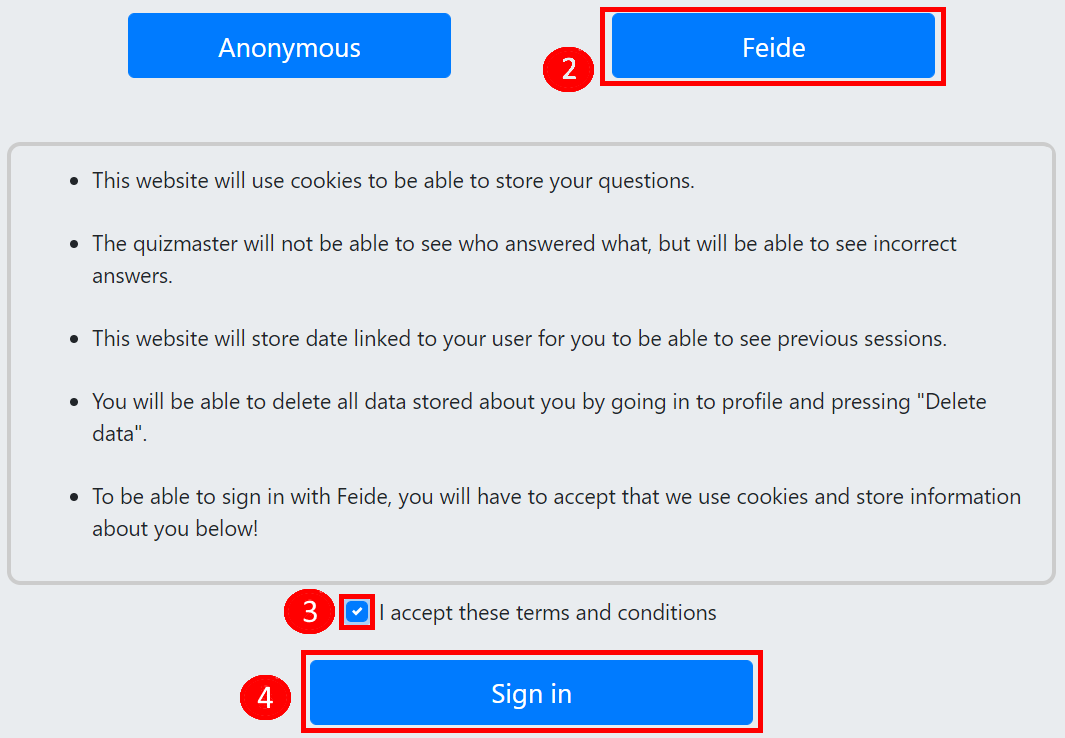
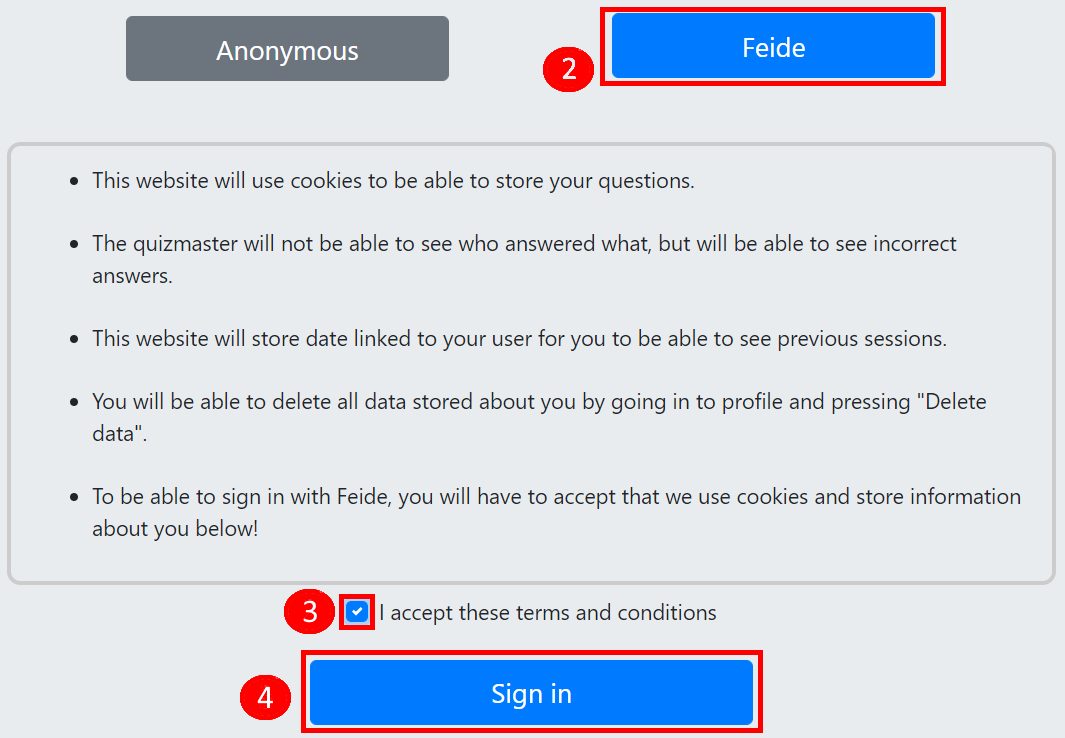
added appendix login

Changed region(s): [[0.093, 0.0, 0.4338, 0.1247]]

diff --git a/Rapport/sections/appendix/appendix-e/client/login.tex b/Rapport/sections/appendix/appendix-e/client/login.tex
@@ -1,51 +1,58 @@
 \subsubsection{Login}
-The user must login onto the page for the user to be able to participate in a session. There are two alternatives login methods the user can choose between. Preferably for the user, the user can log onto the page using their Feide user. If the user chooses this method, then the user has access to any previous questions and given answers to the sessions the user has participated in. The user also does not need to worry about losing data if the user disconnects from the application. However, cookies are used in this login method. Alternatively, the user can login anonymously, which does not require the usage of cookies on the client. It does however, mean that the user does not have access to any previous question data, and if the user disconnects, then the user must go through the entire login process again. The following steps are used for the user to login onto the page, both alternatives are listed:
+
 \paragraph{Anonymous Login}
-\begin{enumerate}
-	\item Assuming the user has managed to enter the home page of the application, the user needs to click on the Sign in button in right 				  corner of the navigation bar, to enter the login page.\ref{fig:annoMainPage}
-	\item Next the user must verify the login method. Anonymous is chosen as the default login method, therefore this step can be skipped 				  unless the user has previously clicked the “Feide” button If this case, then user has to click on the button labeled “Anonymous”.\ref{fig:annoLogin}
-	\item Finally the user must click on the button labeled “Sign in” to anonymously log onto the page.\ref{fig:annoLogin} If the login was 			  successful, the user is redirected to the /client page and the button labeled “Sign in” on the navigation bar is displaying a random 		  anonymous animal name.\ref{fig:annoResult}
-\end{enumerate}
 \begin{figure}[H]
     \centering
     \begin{subfigure}{0.60\linewidth}
         \includegraphics[width=\linewidth]{/userManual/login/mainpage}
-       	\caption{Figure displays main page off the application. Step 1. is visible in the figure.}
+       	\caption{}
 		\label{fig:annoMainPage}	
     \end{subfigure}
     \begin{subfigure}{0.60\linewidth}
         \includegraphics[width=\linewidth]{/userManual/login/annoLogin}
-      	\caption{Figure displays login page when anonymous method is chosen. Step 2. and 3. are visible in the figure.}
+      	\caption{}
 		\label{fig:annoLogin}	
     \end{subfigure}
     \begin{subfigure}{0.60\linewidth}
     	\includegraphics[width=\linewidth]{/userManual/login/annoResult}
-    	\caption{Figure displays the navigation bar after the user has logged onto the Application anonymously. In this case the name "humpback whale" is the random animal name assigned which was assigned to the user.}
+    	\caption{}
     	\label{fig:annoResult}	
     \end{subfigure}
 \end{figure}
+
+\begin{userManualItemlist}
+	\item[Step I.] Click the Sign in button (1). (Figure: \ref{fig:annoMainPage})
+	\item[Step II.] Click the button (2) labeled “Anonymous”. (Figure: \ref{fig:annoLogin})
+	\item[Step III.] Click the button (3) labeled “Sign in” to anonymously log in to the page. (Figure: \ref{fig:annoLogin})
+	\item[Step IV.] If the login was successful, the navigation bar displays a random animal name. (Figure: \ref{fig:annoResult})
+\end{userManualItemlist}
+
 \paragraph{Feide Login}
-\begin{enumerate}
-	\item Assuming the user has managed to enter the home page of the application, the user needs to click on the Sign in button in right corner of the navigation bar, to enter the login page.\ref{fig:feideMainPage}
-	\item Next the user must verify the login method. In this case, the user needs to click on the button labeled as “Feide”. Once the user has clicked on this button the sites terms of use will be updated with the application use of cookies.\ref{fig:feideLogin}
-	\item After the user has read through the web applications terms of use, the user needs to verify that they have accepted these terms by checking the radio button. Once this is done, the radio button gets a blue background and the button labeled “Sign in” is no longer disabled.\ref{fig:feideLogin}
- 	\item Finally the user must click on the button labeled “Sign in” to log onto the page with their Feide account.\ref{fig:feideLogin} The user is then redirected to Uninett, where the user has to sign into their Feide account. Once this is done the user is redirected to the applications client page. If the login was successful if and the button labeled “Sign in” on the navigation bar is now displaying the users Feide username.\ref{fig:feideResult}
-\end{enumerate}
 \begin{figure}[H]
     \centering
     \begin{subfigure}{0.60\linewidth}
         \includegraphics[width=\linewidth]{/userManual/login/mainpage}
-       	\caption{Figure displays main page off the application. Step 1. is visible in the figure.}
+       	\caption{}
 		\label{fig:feideMainPage}	
     \end{subfigure}
     \begin{subfigure}{0.60\linewidth}
         \includegraphics[width=\linewidth]{/userManual/login/feideLogin}
-      	\caption{Figure displays login page when Feide method is chosen. Step 2., 3. and 4. are visible in the figure.}
+      	\caption{}
 		\label{fig:feideLogin}	
     \end{subfigure}
      \begin{subfigure}{0.60\linewidth}
         \includegraphics[width=\linewidth]{/userManual/login/feideResult}
-      	\caption{Figure displays the navigation bar after the user has logged onto the Application with their Feide user.}
+      	\caption{}
 		\label{fig:feideResult}	
     \end{subfigure}
 \end{figure}
+
+\begin{userManualItemlist}
+	\item[Step I.] Click the Sign in button (1). (Figure: \ref{fig:feideMainPage})
+	\item[Step II.] Click the button (2) labeled “Feide”. (Figure: \ref{fig:feideLogin})
+	\item[Step III.] Read through the terms of use!  
+	\item[Step IV.] Click the radio button (3) (Figure: \ref{fig:feideLogin})
+	\item[Step V.] Click the button (4) labeled “Sign in”. (Figure: \ref{fig:feideLogin}) 
+	\item[Step VI.] Follow the instructions given and log in to your Feide account.
+	\item[Step VII.] If the login was successful, the navigation bar displays your Feide username. (Figure: \ref{fig:feideResult})
+\end{userManualItemlist}

diff --git a/Rapport/bachelor rapport.tex b/Rapport/bachelor rapport.tex
@@ -33,6 +33,8 @@
 \usepackage{csquotes}
 \usepackage[titletoc]{appendix}
 \usepackage{listings}
+\usepackage{enumitem}
+\usepackage{environ}
 
 \definecolor{dkgreen}{rgb}{0,0.6,0}
 \definecolor{gray}{rgb}{0.5,0.5,0.5}
@@ -57,6 +59,30 @@
 
 % Makro definisjoner
 \newcommand{\code}[1]{\texttt{#1}}
+
+%Usermanual setup found on this page: https://tex.stackexchange.com/a/130099 URL visited 10.05.2019
+%code starts here
+\newlength\widest
+\makeatletter
+
+\NewEnviron{userManualItemlist}{%
+  \vbox{%
+    \global\setlength\widest{0pt}%
+    \def\item[##1]{%
+      \settowidth\@tempdima{\textbf{##1}}%
+      \ifdim\@tempdima>\widest\global\setlength\widest{\@tempdima}\fi%
+    }%
+    \setbox0=\hbox{\BODY}%
+  }
+  \begin{description}[
+    leftmargin=\dimexpr\widest+0.5em\relax,
+    labelindent=0pt,
+    labelwidth=\widest]
+  \BODY
+  \end{description}%
+}
+\makeatother
+%code ends here
 
 \begin{document}
 
